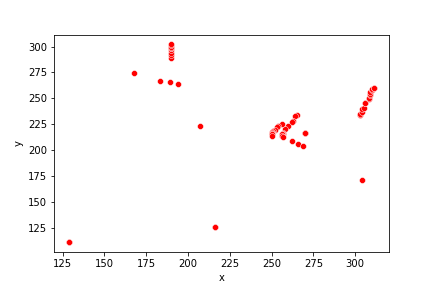
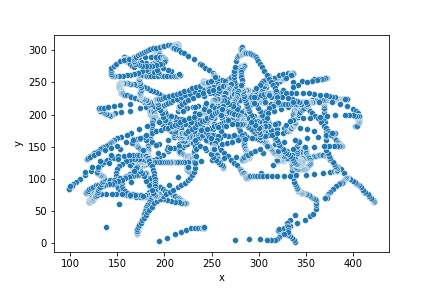
add graph mousemove latlong

diff --git a/python/heatmap.py b/python/heatmap.py
@@ -28,14 +28,15 @@ def pointToCoord(point):
 def latlngToCoord(latlng):
     return [float(s) for s in latlng.strip("LatLng()").split(",")]
 
-def eventCoords(df, df_zoom):
+def eventCoords(df, df_typ):
     lst = []
-    for i in range(df_zoom.shape[0]-1):
+
+    for i in range(df_typ.shape[0]-1):
 
         if i%2 == 0:
             
-            start = df_zoom.iloc[i, 7]
-            end = df_zoom.iloc[i+1, 7]
+            start = df_typ.iloc[i, 7]
+            end = df_typ.iloc[i+1, 7]
 
             k = df[df['sec'] <= start].index.values[-1]
             l = df[df['sec'] <= end].index.values[-1]
@@ -60,9 +61,9 @@ if __name__ == "__main__":
     dfAllEvents = pd.read_csv('data/allEvents_'+NAME+'.csv', sep=';')
     addSeconds(dfAllEvents)
     
-    ###################### dataframe toutes les coords mouseMove ##############
+    # ###################### dataframe toutes les coords mouseMove ##############
     
-    df_latlong = df['posLatLon'].apply(latlngToCoord)
+    df['xyLatLong'] = df['posLatLon'].apply(latlngToCoord)
     df['xy'] = df['posPix'].apply(pointToCoord)
     
     df['x'] = df['xy'].apply(lambda x: x[0])
@@ -70,58 +71,124 @@ if __name__ == "__main__":
     
     df_n = df[['x', 'y']]
     
-    ###################### dataframe events zoom #########################
+    df['xlatLong'] = df['xyLatLong'].apply(lambda x: x[0])
+    df['ylatLong'] = df['xyLatLong'].apply(lambda x: x[1])
+    
+    # ###################### dataframe events zoom #########################
     
     df_zoom = dfAllEvents[dfAllEvents["type"].isin(["zoomstart", "zoomend"])]
     zoomCoords = eventCoords(df, df_zoom)
     
-    ###################### dataframe events dragstart #########################
+    # ###################### dataframe events dragstart #########################
     
     df_drag = dfAllEvents[dfAllEvents["type"].isin(["dragstart", "dragend"])]
     dragCoords = eventCoords(df, df_drag)
 
     
-    # ###################### Graphiques #########################
+    # ###################### Graphiques Pix #########################
 
     # ###################### Zoom #########################
     
     plt.figure()
-    # sns.scatterplot(data=df, x="x", y="y")
     
-    # for i in range(len(zoomCoords)):
-    #     df_zoom1 = zoomCoords[i]
-    #     sns.scatterplot(data=df_zoom1, x="x", y="y", color='red')
+    for i in range(len(zoomCoords)):
+        df_zoom1 = zoomCoords[i]
+        sns.scatterplot(data=df_zoom1, x="x", y="y", color='red')
     
-    # plt.savefig("output/tracePoint_mouse_"+NAME+".png")
+    plt.savefig("output/tracePoint_mouse_zoom"+NAME+".png")
 
     # ###################### drag #########################
     
-    # plt.figure()
+    plt.figure()
 
     for i in range(len(dragCoords)):
         df_drag1 = dragCoords[i]
         sns.scatterplot(data=df_drag1, x="x", y="y", color='green')
     
+    plt.savefig("output/tracePoint_mouse_drag"+NAME+".png")
 
+
+    plt.figure()
+    sns.scatterplot(data=df, x="x", y="y")
+    plt.savefig("output/tracePoint_mouse_"+NAME+".png")
+    
+    plt.figure()
+    sns.scatterplot(data=df, x="x", y="y")
+    
+    for i in range(len(zoomCoords)):
+        df_zoom1 = zoomCoords[i]
+        sns.scatterplot(data=df_zoom1, x="x", y="y", color='red')
+    
+    
+    for i in range(len(dragCoords)):
+        df_drag1 = dragCoords[i]
+        sns.scatterplot(data=df_drag1, x="x", y="y", color='green')
+    
+    plt.savefig("output/tracePoint_mouse_all"+NAME+".png")
 
     # plt.figure()
     # plt.plot(df['x'], df['y'])
-    
-    # for i in range(len(k)):
-    #     df_zoom1 = k[i]
-    #     sns.scatterplot(data=df_zoom1, x="x", y="y", color='red')
-    
     # plt.savefig("output/traceLine_mouse_"+NAME+".png")
     
-    # for i in range(len(k)):
-    #     plt.figure()
-    #     df_zoom1 = k[i]
-    #     sns.scatterplot(data=df_zoom1, x="x", y="y", color='red')
     
+    plt.figure()
+    plt.hist2d(df['x'], df['y'])
+    plt.colorbar()
+    plt.savefig("output/heatmap_mouse_"+NAME+".png")
+    
+    
+    # ###################### Graphiques latLong #########################
+
+    # ###################### Zoom #########################
+    
+    plt.figure()
+    
+    for i in range(len(zoomCoords)):
+        df_zoom1 = zoomCoords[i]
+        sns.scatterplot(data=df_zoom1, x="xlatLong", y="ylatLong", color='red')
+    
+    plt.savefig("output/tracePoint_mouse_zoom2_"+NAME+".png")
+
+    # ###################### drag #########################
+    
+    plt.figure()
+
+    for i in range(len(dragCoords)):
+        df_drag1 = dragCoords[i]
+        sns.scatterplot(data=df_drag1, x="xlatLong", y="ylatLong", color='green')
+    
+    plt.savefig("output/tracePoint_mouse_drag2_"+NAME+".png")
+
+
+    plt.figure()
+    sns.scatterplot(data=df, x="xlatLong", y="ylatLong")
+    plt.savefig("output/tracePoint_mouse2_"+NAME+".png")
+    
+    plt.figure()
+    sns.scatterplot(data=df, x="xlatLong", y="ylatLong")
+    
+    for i in range(len(zoomCoords)):
+        df_zoom1 = zoomCoords[i]
+        sns.scatterplot(data=df_zoom1, x="xlatLong", y="ylatLong", color='red')
+    
+    
+    for i in range(len(dragCoords)):
+        df_drag1 = dragCoords[i]
+        sns.scatterplot(data=df_drag1, x="xlatLong", y="ylatLong", color='green')
+    
+    plt.savefig("output/tracePoint_mouse_all2_"+NAME+".png")
+
     # plt.figure()
-    # plt.hist2d(df['x'], df['y'])
-    # plt.colorbar()
-    # plt.savefig("output/heatmap_mouse_"+NAME+".png")
+    # plt.plot(df['x'], df['y'])
+    # plt.savefig("output/traceLine_mouse_"+NAME+".png")
+    
+    
+    plt.figure()
+    plt.hist2d(df['xlatLong'], df['ylatLong'])
+    plt.colorbar()
+    plt.savefig("output/heatmap_mouse2_"+NAME+".png")
+    
+    
 
 
     

diff --git a/python/traitementCsv_v2.py b/python/traitementCsv_v2.py
@@ -104,7 +104,7 @@ def drawGraphTypeEvents(df):
     plt.show()
 
 
-NAME = 'collegueJbeilin'
+NAME = 'jbeilin'
     
 if __name__ == "__main__":
 
